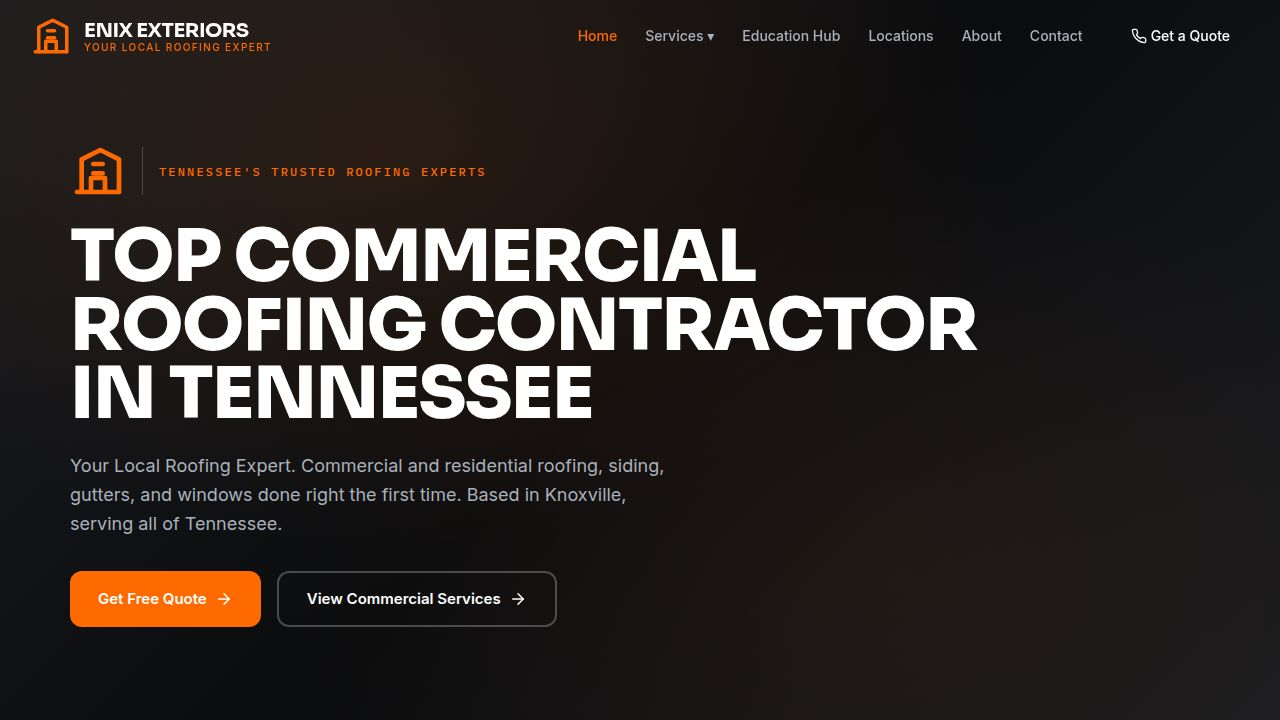
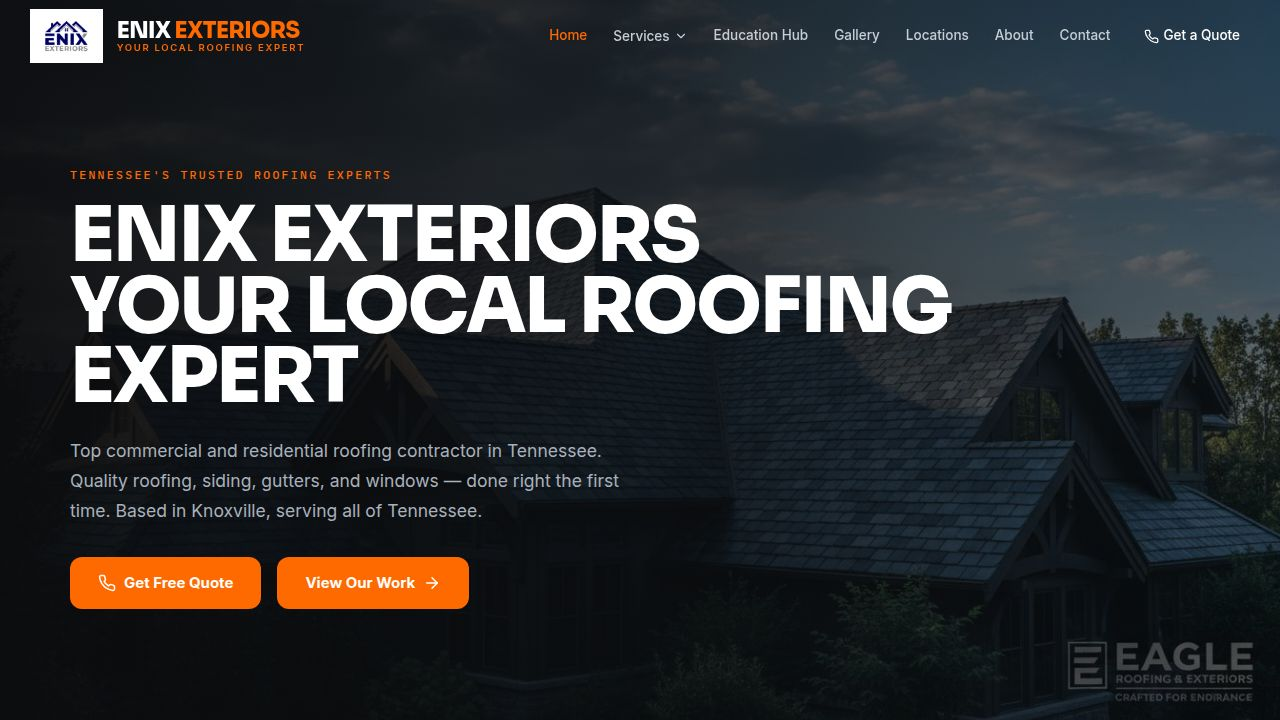
Improve video player functionality and layout for educational content
Refactor video player components in build_pages.mjs and associated HTML files (index.html, education-hub.html) to address duplicate title wrappers, ensure proper video autoplay, display a non-overlapping progress bar, and enable fullscreen expansion.

Replit-Commit-Author: Agent
Replit-Commit-Session-Id: c6e13869-147b-4d27-906d-4bc9683286ef
Replit-Commit-Checkpoint-Type: full_checkpoint
Replit-Commit-Event-Id: 69363f5c-50b3-4be5-930b-5e7dff9fd7bf
Replit-Commit-Screenshot-Url: https://storage.googleapis.com/screenshot-production-us-central1/0705d33f-1fae-4810-9300-26566b6c1b43/c6e13869-147b-4d27-906d-4bc9683286ef/Sk58SjZ
Replit-Helium-Checkpoint-Created: true

diff --git a/artifacts/enix-exteriors/index.html b/artifacts/enix-exteriors/index.html
@@ -470,8 +470,10 @@ a{color:inherit}
     <div class="video-grid">
       <div class="edu-player-wrap">
   <div class="edu-player-wrap-title">When It's Time for a New Roof</div>
+  <div class="edu-player-wrap">
+  <div class="edu-player-wrap-title">When It's Time for a New Roof<span onclick="vidFullscreen('vid-residential')">expand</span></div>
   <div class="edu-player" id="vid-residential">
-  <div class="edu-player-screen">
+    <div class="edu-player-screen">
   <div class="edu-slide active" data-slide="0">
     <div class="edu-slide-bg"><img src="images/gallery-roof-sky.jpg" alt="When It's Time for a New Roof" loading="lazy"></div>
     <div class="edu-slide-overlay"></div>
@@ -542,20 +544,23 @@ a{color:inherit}
       <a href="contact.html" class="edu-slide-cta-btn">Schedule Your Free Inspection →</a>
     </div>
   </div></div>
-  <div class="edu-player-controls">
-    <button class="edu-play-btn" onclick="vidPlayPause('vid-residential')">▶</button>
-    <button class="edu-nav-btn" onclick="vidPrev('vid-residential')">‹</button>
-    <div class="edu-progress-track"><div class="edu-progress-fill"></div></div>
-    <button class="edu-nav-btn" onclick="vidNext('vid-residential')">›</button>
-    <span class="edu-counter">1/7</span>
-    <button class="edu-fs-btn" title="Full screen" onclick="vidFullscreen('vid-residential')">⛶</button>
+    <div class="edu-player-controls">
+      <button class="edu-play-btn" onclick="vidPlayPause('vid-residential')">▶</button>
+      <button class="edu-nav-btn" onclick="vidPrev('vid-residential')">‹</button>
+      <div class="edu-progress-track"><div class="edu-progress-fill"></div></div>
+      <button class="edu-nav-btn" onclick="vidNext('vid-residential')">›</button>
+      <span class="edu-counter">1/7</span>
+      <button class="edu-fs-btn" title="Full screen" onclick="vidFullscreen('vid-residential')">⛶</button>
+    </div>
   </div>
 </div>
 </div>
       <div class="edu-player-wrap">
   <div class="edu-player-wrap-title">Commercial Roofing Systems</div>
+  <div class="edu-player-wrap">
+  <div class="edu-player-wrap-title">Commercial Roofing Systems Explained<span onclick="vidFullscreen('vid-commercial')">expand</span></div>
   <div class="edu-player" id="vid-commercial">
-  <div class="edu-player-screen">
+    <div class="edu-player-screen">
   <div class="edu-slide active" data-slide="0">
     <div class="edu-slide-bg"><img src="images/gallery-commercial-1.jpg" alt="Commercial Roofing Systems Explained" loading="lazy"></div>
     <div class="edu-slide-overlay"></div>
@@ -626,20 +631,23 @@ a{color:inherit}
       <a href="contact.html" class="edu-slide-cta-btn">Schedule Commercial Inspection →</a>
     </div>
   </div></div>
-  <div class="edu-player-controls">
-    <button class="edu-play-btn" onclick="vidPlayPause('vid-commercial')">▶</button>
-    <button class="edu-nav-btn" onclick="vidPrev('vid-commercial')">‹</button>
-    <div class="edu-progress-track"><div class="edu-progress-fill"></div></div>
-    <button class="edu-nav-btn" onclick="vidNext('vid-commercial')">›</button>
-    <span class="edu-counter">1/7</span>
-    <button class="edu-fs-btn" title="Full screen" onclick="vidFullscreen('vid-commercial')">⛶</button>
+    <div class="edu-player-controls">
+      <button class="edu-play-btn" onclick="vidPlayPause('vid-commercial')">▶</button>
+      <button class="edu-nav-btn" onclick="vidPrev('vid-commercial')">‹</button>
+      <div class="edu-progress-track"><div class="edu-progress-fill"></div></div>
+      <button class="edu-nav-btn" onclick="vidNext('vid-commercial')">›</button>
+      <span class="edu-counter">1/7</span>
+      <button class="edu-fs-btn" title="Full screen" onclick="vidFullscreen('vid-commercial')">⛶</button>
+    </div>
   </div>
 </div>
 </div>
       <div class="edu-player-wrap">
   <div class="edu-player-wrap-title">After Storm Damage: Action Plan</div>
+  <div class="edu-player-wrap">
+  <div class="edu-player-wrap-title">After Storm Damage: Your Action Plan<span onclick="vidFullscreen('vid-storm')">expand</span></div>
   <div class="edu-player" id="vid-storm">
-  <div class="edu-player-screen">
+    <div class="edu-player-screen">
   <div class="edu-slide active" data-slide="0">
     <div class="edu-slide-bg"><img src="images/gallery-project-9.jpg" alt="After Storm Damage: Your Action Plan" loading="lazy"></div>
     <div class="edu-slide-overlay"></div>
@@ -710,13 +718,14 @@ a{color:inherit}
       <a href="contact.html" class="edu-slide-cta-btn">Call for Emergency Inspection →</a>
     </div>
   </div></div>
-  <div class="edu-player-controls">
-    <button class="edu-play-btn" onclick="vidPlayPause('vid-storm')">▶</button>
-    <button class="edu-nav-btn" onclick="vidPrev('vid-storm')">‹</button>
-    <div class="edu-progress-track"><div class="edu-progress-fill"></div></div>
-    <button class="edu-nav-btn" onclick="vidNext('vid-storm')">›</button>
-    <span class="edu-counter">1/7</span>
-    <button class="edu-fs-btn" title="Full screen" onclick="vidFullscreen('vid-storm')">⛶</button>
+    <div class="edu-player-controls">
+      <button class="edu-play-btn" onclick="vidPlayPause('vid-storm')">▶</button>
+      <button class="edu-nav-btn" onclick="vidPrev('vid-storm')">‹</button>
+      <div class="edu-progress-track"><div class="edu-progress-fill"></div></div>
+      <button class="edu-nav-btn" onclick="vidNext('vid-storm')">›</button>
+      <span class="edu-counter">1/7</span>
+      <button class="edu-fs-btn" title="Full screen" onclick="vidFullscreen('vid-storm')">⛶</button>
+    </div>
   </div>
 </div>
 </div>

diff --git a/artifacts/enix-exteriors/public/education-hub.html b/artifacts/enix-exteriors/public/education-hub.html
@@ -383,8 +383,10 @@ a{color:inherit}
     <div class="video-grid">
       <div class="edu-player-wrap">
   <div class="edu-player-wrap-title">When It's Time for a New Roof</div>
+  <div class="edu-player-wrap">
+  <div class="edu-player-wrap-title">When It's Time for a New Roof<span onclick="vidFullscreen('vid-residential')">expand</span></div>
   <div class="edu-player" id="vid-residential">
-  <div class="edu-player-screen">
+    <div class="edu-player-screen">
   <div class="edu-slide active" data-slide="0">
     <div class="edu-slide-bg"><img src="images/gallery-roof-sky.jpg" alt="When It's Time for a New Roof" loading="lazy"></div>
     <div class="edu-slide-overlay"></div>
@@ -455,20 +457,23 @@ a{color:inherit}
       <a href="contact.html" class="edu-slide-cta-btn">Schedule Your Free Inspection →</a>
     </div>
   </div></div>
-  <div class="edu-player-controls">
-    <button class="edu-play-btn" onclick="vidPlayPause('vid-residential')">▶</button>
-    <button class="edu-nav-btn" onclick="vidPrev('vid-residential')">‹</button>
-    <div class="edu-progress-track"><div class="edu-progress-fill"></div></div>
-    <button class="edu-nav-btn" onclick="vidNext('vid-residential')">›</button>
-    <span class="edu-counter">1/7</span>
-    <button class="edu-fs-btn" title="Full screen" onclick="vidFullscreen('vid-residential')">⛶</button>
+    <div class="edu-player-controls">
+      <button class="edu-play-btn" onclick="vidPlayPause('vid-residential')">▶</button>
+      <button class="edu-nav-btn" onclick="vidPrev('vid-residential')">‹</button>
+      <div class="edu-progress-track"><div class="edu-progress-fill"></div></div>
+      <button class="edu-nav-btn" onclick="vidNext('vid-residential')">›</button>
+      <span class="edu-counter">1/7</span>
+      <button class="edu-fs-btn" title="Full screen" onclick="vidFullscreen('vid-residential')">⛶</button>
+    </div>
   </div>
 </div>
 </div>
       <div class="edu-player-wrap">
   <div class="edu-player-wrap-title">Commercial Roofing Systems Explained</div>
+  <div class="edu-player-wrap">
+  <div class="edu-player-wrap-title">Commercial Roofing Systems Explained<span onclick="vidFullscreen('vid-commercial')">expand</span></div>
   <div class="edu-player" id="vid-commercial">
-  <div class="edu-player-screen">
+    <div class="edu-player-screen">
   <div class="edu-slide active" data-slide="0">
     <div class="edu-slide-bg"><img src="images/gallery-commercial-1.jpg" alt="Commercial Roofing Systems Explained" loading="lazy"></div>
     <div class="edu-slide-overlay"></div>
@@ -539,20 +544,23 @@ a{color:inherit}
       <a href="contact.html" class="edu-slide-cta-btn">Schedule Commercial Inspection →</a>
     </div>
   </div></div>
-  <div class="edu-player-controls">
-    <button class="edu-play-btn" onclick="vidPlayPause('vid-commercial')">▶</button>
-    <button class="edu-nav-btn" onclick="vidPrev('vid-commercial')">‹</button>
-    <div class="edu-progress-track"><div class="edu-progress-fill"></div></div>
-    <button class="edu-nav-btn" onclick="vidNext('vid-commercial')">›</button>
-    <span class="edu-counter">1/7</span>
-    <button class="edu-fs-btn" title="Full screen" onclick="vidFullscreen('vid-commercial')">⛶</button>
+    <div class="edu-player-controls">
+      <button class="edu-play-btn" onclick="vidPlayPause('vid-commercial')">▶</button>
+      <button class="edu-nav-btn" onclick="vidPrev('vid-commercial')">‹</button>
+      <div class="edu-progress-track"><div class="edu-progress-fill"></div></div>
+      <button class="edu-nav-btn" onclick="vidNext('vid-commercial')">›</button>
+      <span class="edu-counter">1/7</span>
+      <button class="edu-fs-btn" title="Full screen" onclick="vidFullscreen('vid-commercial')">⛶</button>
+    </div>
   </div>
 </div>
 </div>
       <div class="edu-player-wrap">
   <div class="edu-player-wrap-title">After Storm Damage: Your Action Plan</div>
+  <div class="edu-player-wrap">
+  <div class="edu-player-wrap-title">After Storm Damage: Your Action Plan<span onclick="vidFullscreen('vid-storm')">expand</span></div>
   <div class="edu-player" id="vid-storm">
-  <div class="edu-player-screen">
+    <div class="edu-player-screen">
   <div class="edu-slide active" data-slide="0">
     <div class="edu-slide-bg"><img src="images/gallery-project-9.jpg" alt="After Storm Damage: Your Action Plan" loading="lazy"></div>
     <div class="edu-slide-overlay"></div>
@@ -623,13 +631,14 @@ a{color:inherit}
       <a href="contact.html" class="edu-slide-cta-btn">Call for Emergency Inspection →</a>
     </div>
   </div></div>
-  <div class="edu-player-controls">
-    <button class="edu-play-btn" onclick="vidPlayPause('vid-storm')">▶</button>
-    <button class="edu-nav-btn" onclick="vidPrev('vid-storm')">‹</button>
-    <div class="edu-progress-track"><div class="edu-progress-fill"></div></div>
-    <button class="edu-nav-btn" onclick="vidNext('vid-storm')">›</button>
-    <span class="edu-counter">1/7</span>
-    <button class="edu-fs-btn" title="Full screen" onclick="vidFullscreen('vid-storm')">⛶</button>
+    <div class="edu-player-controls">
+      <button class="edu-play-btn" onclick="vidPlayPause('vid-storm')">▶</button>
+      <button class="edu-nav-btn" onclick="vidPrev('vid-storm')">‹</button>
+      <div class="edu-progress-track"><div class="edu-progress-fill"></div></div>
+      <button class="edu-nav-btn" onclick="vidNext('vid-storm')">›</button>
+      <span class="edu-counter">1/7</span>
+      <button class="edu-fs-btn" title="Full screen" onclick="vidFullscreen('vid-storm')">⛶</button>
+    </div>
   </div>
 </div>
 </div>